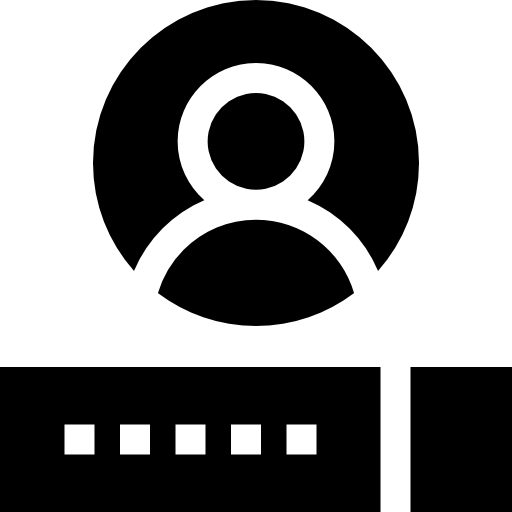
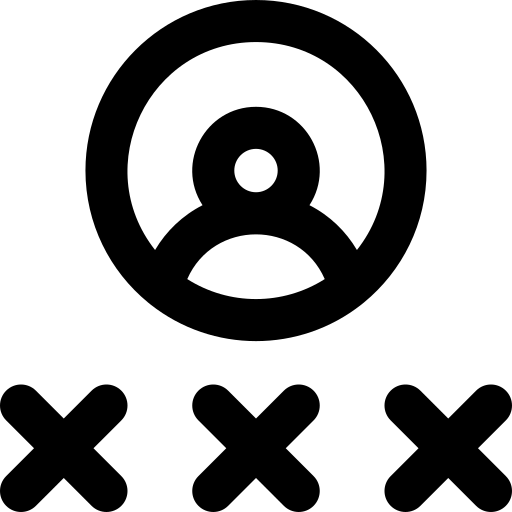
getting ready to create v2

diff --git a/src/PhoneBookV1/PhoneBook.java b/src/PhoneBookV1/PhoneBook.java
@@ -1,10 +1,10 @@
 /*
  * Filename PhoneBook.java
  * Written by Divya Rasania
- * Written on 9/7/2023
+ * Written on 09/07/2023
  */
 
-package PhoneBook;
+package PhoneBookV1;
 
 import javax.swing.*;
 import java.awt.*;
@@ -12,14 +12,14 @@ import java.awt.event.ActionEvent;
 import java.awt.event.ActionListener;
 
 public class PhoneBook extends JFrame implements ActionListener {
-    public static void main(String[] args) {
-        new PhoneBook();
-    }
-
     JLabel phonebookLabel, phonebookIconLabel;
-    JButton viewContactsButton, createButton, searchButton, editButton, deleteButton, backToLoginButton;
+    JButton createButton, viewOrSearchButton, editButton, deleteButton, backToLoginButton;
     JPanel headingPanel, buttonsPanel, iconPanel;
     Font font, font1;
+
+    public static void main(String[] args) {
+        new PhoneBook().setVisible(true);
+    }
 
     PhoneBook() {
         phonebookLabel = new JLabel("Phone Book");
@@ -27,9 +27,8 @@ public class PhoneBook extends JFrame implements ActionListener {
         Image tempImg2 = tempImg1.getImage().getScaledInstance(150, 150, Image.SCALE_DEFAULT);
         ImageIcon phonebookIcon = new ImageIcon(tempImg2);
         phonebookIconLabel = new JLabel(phonebookIcon);
-        viewContactsButton = new JButton("View Contacts");
         createButton = new JButton("Create");
-        searchButton = new JButton("Search");
+        viewOrSearchButton = new JButton("View/Search");
         editButton = new JButton("Edit");
         deleteButton = new JButton("Delete");
         backToLoginButton = new JButton("Back to Login");
@@ -38,9 +37,12 @@ public class PhoneBook extends JFrame implements ActionListener {
         iconPanel = new JPanel();
         font = new Font("Calibri", Font.BOLD, 35);
         font1 = new Font("Calibri", Font.BOLD, 20);
+        Dimension screenSize = Toolkit.getDefaultToolkit().getScreenSize();
+        int x = (screenSize.width - (getWidth() + 500)) / 2;
+        int y = (screenSize.height - (getHeight() + 450)) / 2;
 
         setTitle("Phone Book");
-        setLocation(450, 250);
+        setLocation(x, y);
         setSize(450, 400);
         setDefaultCloseOperation(JFrame.EXIT_ON_CLOSE);
         setIconImage(phonebookIcon.getImage());
@@ -48,14 +50,11 @@ public class PhoneBook extends JFrame implements ActionListener {
         phonebookLabel.setFont(font);
         phonebookLabel.setHorizontalAlignment(JLabel.CENTER);
 
-        viewContactsButton.setFont(font1);
-        viewContactsButton.addActionListener(this);
-
         createButton.setFont(font1);
         createButton.addActionListener(this);
 
-        searchButton.setFont(font1);
-        searchButton.addActionListener(this);
+        viewOrSearchButton.setFont(font1);
+        viewOrSearchButton.addActionListener(this);
 
         editButton.setFont(font1);
         editButton.addActionListener(this);
@@ -69,10 +68,9 @@ public class PhoneBook extends JFrame implements ActionListener {
         headingPanel.setLayout(new GridLayout(1, 1, 10, 10));
         headingPanel.add(phonebookLabel);
 
-        buttonsPanel.setLayout(new GridLayout(6, 1, 10, 10));
-        buttonsPanel.add(viewContactsButton);
+        buttonsPanel.setLayout(new GridLayout(5, 1, 10, 10));
         buttonsPanel.add(createButton);
-        buttonsPanel.add(searchButton);
+        buttonsPanel.add(viewOrSearchButton);
         buttonsPanel.add(editButton);
         buttonsPanel.add(deleteButton);
         buttonsPanel.add(backToLoginButton);
@@ -88,33 +86,24 @@ public class PhoneBook extends JFrame implements ActionListener {
 
     @Override
     public void actionPerformed(ActionEvent e) {
-        if (e.getSource() == viewContactsButton) {
-            // this.setVisible(false);
-            // new ViewContacts().setVisible(true);
-            System.out.println("Pressed View Contacts");
-        }
-
         if (e.getSource() == createButton) {
             this.setVisible(false);
             new Create().setVisible(true);
         }
 
-        if (e.getSource() == searchButton) {
-            // this.setVisible(false);
-            // new Search().setVisible(true);
-            System.out.println("Pressed Search");
+        if (e.getSource() == viewOrSearchButton) {
+            this.setVisible(false);
+            new ViewOrSearch().setVisible(true);
         }
 
         if (e.getSource() == editButton) {
-            // this.setVisible(false);
-            // new Edit().setVisible(true);
-            System.out.println("Pressed Edit");
+            this.setVisible(false);
+            new Edit().setVisible(true);
         }
 
         if (e.getSource() == deleteButton) {
-            // this.setVisible(false);
-            // new Delete().setVisible(true);
-            System.out.println("Pressed Delete");
+            this.setVisible(false);
+            new Delete().setVisible(true);
         }
 
         if (e.getSource() == backToLoginButton){

diff --git a/src/PhoneBookV1/Login.java b/src/PhoneBookV1/Login.java
@@ -1,10 +1,10 @@
 /*
  * Filename Login.java
  * Written by Divya Rasania
- * Written on 9/6/2023
+ * Written on 09/06/2023
  */
 
-package PhoneBook;
+package PhoneBookV1;
 
 import javax.swing.*;
 import java.awt.*;
@@ -12,10 +12,6 @@ import java.awt.event.ActionEvent;
 import java.awt.event.ActionListener;
 
 public class Login extends JFrame implements ActionListener {
-    public static void main(String[] args) {
-        new Login();
-    }
-
     JLabel welcomeLabel, usernameLabel, passwordLabel, iconLabel;
     JTextField usernameTextField;
     JPasswordField passwordTextField;
@@ -40,14 +36,17 @@ public class Login extends JFrame implements ActionListener {
         cancelButton = new JButton("Cancel");
         font = new Font("Calibri", Font.BOLD, 35);
         font1 = new Font("Calibri", Font.BOLD, 20);
+        Dimension screenSize = Toolkit.getDefaultToolkit().getScreenSize();
+        int x = (screenSize.width - (getWidth() + 500)) / 2;
+        int y = (screenSize.height - (getHeight() + 300)) / 2;
         ImageIcon tempImg3 = new ImageIcon(ClassLoader.getSystemResource("Resources/Images/login.png"));
-        Image loginIcon = tempImg3.getImage().getScaledInstance(150, 150, Image.SCALE_DEFAULT);
+        Image loginUserIcon = tempImg3.getImage().getScaledInstance(150, 150, Image.SCALE_DEFAULT);
 
         setDefaultCloseOperation(JFrame.EXIT_ON_CLOSE);
         setResizable(false);
-        setLocation(400, 300);
+        setLocation(x, y);
         setSize(530, 250);
-        setIconImage(loginIcon);
+        setIconImage(loginUserIcon);
         setTitle("Login PhoneBook");
 
         welcomeLabel.setHorizontalAlignment(JLabel.CENTER);

diff --git a/src/PhoneBookV1/Create.java b/src/PhoneBookV1/Create.java
@@ -1,10 +1,10 @@
 /*
  * Filename Create.java
  * Written by Divya Rasania
- * Written on 9/7/2023
+ * Written on 09/07/2023
  */
 
-package PhoneBook;
+package PhoneBookV1;
 
 import javax.swing.*;
 import java.awt.*;
@@ -22,11 +22,6 @@ public class Create extends JFrame implements ActionListener {
     JPanel headingPanel, mainPanel;
     Font font, font1;
     int id;
-
-    public static void main(String[] args) {
-        // TODO: remove .setVisible(true);
-        new Create().setVisible(true);
-    }
 
     Create() {
         headingLabel = new JLabel("Add Contact");
@@ -46,12 +41,15 @@ public class Create extends JFrame implements ActionListener {
         mainPanel = new JPanel();
         font = new Font("Calibri", Font.BOLD, 35);
         font1 = new Font("Calibri", Font.BOLD, 20);
-        ImageIcon tempImg = new ImageIcon(ClassLoader.getSystemResource("Resources/Images/add-user.png"));
+        ImageIcon tempImg = new ImageIcon(ClassLoader.getSystemResource("Resources/Images/create.png"));
         Image addUserIcon = tempImg.getImage().getScaledInstance(150, 150, Image.SCALE_DEFAULT);
+        Dimension screenSize = Toolkit.getDefaultToolkit().getScreenSize();
+        int x = (screenSize.width - (getWidth() + 500)) / 2;
+        int y = (screenSize.height - (getHeight() + 450)) / 2;
 
         setDefaultCloseOperation(JFrame.EXIT_ON_CLOSE);
         setResizable(false);
-        setLocation(500, 200);
+        setLocation(x, y);
         setSize(400, 450);
         setIconImage(addUserIcon);
         setTitle("Create Contact");

diff --git a/src/PhoneBookV1/ViewOrSearch.java b/src/PhoneBookV1/ViewOrSearch.java
@@ -1,0 +1,32 @@
+/*
+ * Filename ViewContacts.java
+ * Written by Divya Rasania
+ * Written on 09/08/2023
+ */
+
+package PhoneBookV1;
+
+import javax.swing.*;
+import java.awt.*;
+
+public class ViewOrSearch extends JFrame {
+    public static void main(String[] args) {
+        new ViewOrSearch().setVisible(true);
+    }
+
+    ViewOrSearch() {
+        ImageIcon tempImg = new ImageIcon(ClassLoader.getSystemResource("Resources/Images/edit.png"));
+        Image searchIcon = tempImg.getImage().getScaledInstance(150, 150, Image.SCALE_DEFAULT);
+        Dimension screenSize = Toolkit.getDefaultToolkit().getScreenSize();
+        int x = (screenSize.width - (getWidth() + 500)) / 2;
+        int y = (screenSize.height - (getHeight() + 300)) / 2;
+
+        setTitle("View/Search Contacts");
+        setSize(400, 600);
+        setLocation(x, y);
+        setDefaultCloseOperation(JFrame.EXIT_ON_CLOSE);
+        setLocationRelativeTo(null);
+        setIconImage(searchIcon);
+        setResizable(false);
+    }
+}

diff --git a/src/PhoneBookV1/Delete.java b/src/PhoneBookV1/Delete.java
@@ -1,0 +1,32 @@
+/*
+ * Filename Delete.java
+ * Written by Divya Rasania
+ * Written on 09/09/2023
+ */
+
+package PhoneBookV1;
+
+import javax.swing.*;
+import java.awt.*;
+
+public class Delete extends JFrame {
+    public static void main(String[] args) {
+        new Delete().setVisible(true);
+    }
+
+    Delete() {
+        ImageIcon tempImg = new ImageIcon(ClassLoader.getSystemResource("Resources/Images/delete.png"));
+        Image deleteIcon = tempImg.getImage().getScaledInstance(150, 150, Image.SCALE_DEFAULT);
+        Dimension screenSize = Toolkit.getDefaultToolkit().getScreenSize();
+        int x = (screenSize.width - (getWidth() + 500)) / 2;
+        int y = (screenSize.height - (getHeight() + 300)) / 2;
+
+        setTitle("Delete Contacts");
+        setSize(500, 500);
+        setLocation(x, y);
+        setDefaultCloseOperation(JFrame.EXIT_ON_CLOSE);
+        setLocationRelativeTo(null);
+        setIconImage(deleteIcon);
+        setResizable(false);
+    }
+}

diff --git a/src/PhoneBookV1/Edit.java b/src/PhoneBookV1/Edit.java
@@ -1,0 +1,32 @@
+/*
+ * Filename Edit.java
+ * Written by Divya Rasania
+ * Written on 09/08/2023
+ */
+
+package PhoneBookV1;
+
+import javax.swing.*;
+import java.awt.*;
+
+public class Edit extends JFrame {
+    public static void main(String[] args) {
+        new Edit().setVisible(true);
+    }
+
+    Edit() {
+        ImageIcon tempImg = new ImageIcon(ClassLoader.getSystemResource("Resources/Images/edit.png"));
+        Image editIcon = tempImg.getImage().getScaledInstance(150, 150, Image.SCALE_DEFAULT);
+        Dimension screenSize = Toolkit.getDefaultToolkit().getScreenSize();
+        int x = (screenSize.width - (getWidth() + 500)) / 2;
+        int y = (screenSize.height - (getHeight() + 300)) / 2;
+
+        setTitle("Edit Contacts");
+        setSize(700, 400);
+        setLocation(x, y);
+        setDefaultCloseOperation(JFrame.EXIT_ON_CLOSE);
+        setLocationRelativeTo(null);
+        setIconImage(editIcon);
+        setResizable(false);
+    }
+}

diff --git a/src/PhoneBookV1/Main.java b/src/PhoneBookV1/Main.java
@@ -1,10 +1,10 @@
 /*
  * Filename Main.java
  * Written by Divya Rasania
- * Written on 9/7/2023
+ * Written on 09/07/2023
  */
 
-package PhoneBook;
+package PhoneBookV1;
 
 public class Main {
     public static void main(String[] args) {

diff --git a/README.md b/README.md
@@ -1,5 +1,17 @@
 # PhoneBook
-This is a phone book application that lets you store, edit, delete, and search contacts using their unique ids. Whenever you create a new contact, the app will ask you for their name, phone number, email, and address, and assign them an id automatically. You can also log in to the app to secure your contacts and prevent unauthorized access. The app uses input/output operations to save and retrieve contacts from a text file. The app also has a user-friendly interface that makes it easy to manage your contacts.
+This is a phone book application that 
+lets you store, edit, delete, and search 
+contacts using their unique ids. Whenever 
+you create a new contact, the app will ask 
+you for their name, phone number, email, 
+and address, and assign them an id 
+automatically. You can also log in to the 
+app to secure your contacts and prevent 
+unauthorized access. The app uses 
+input/output operations to save and 
+retrieve contacts from a text file. 
+The app also has a user-friendly interface 
+that makes it easy to manage your contacts.
 
 # Things I learnt through this project
 1. JFrame
